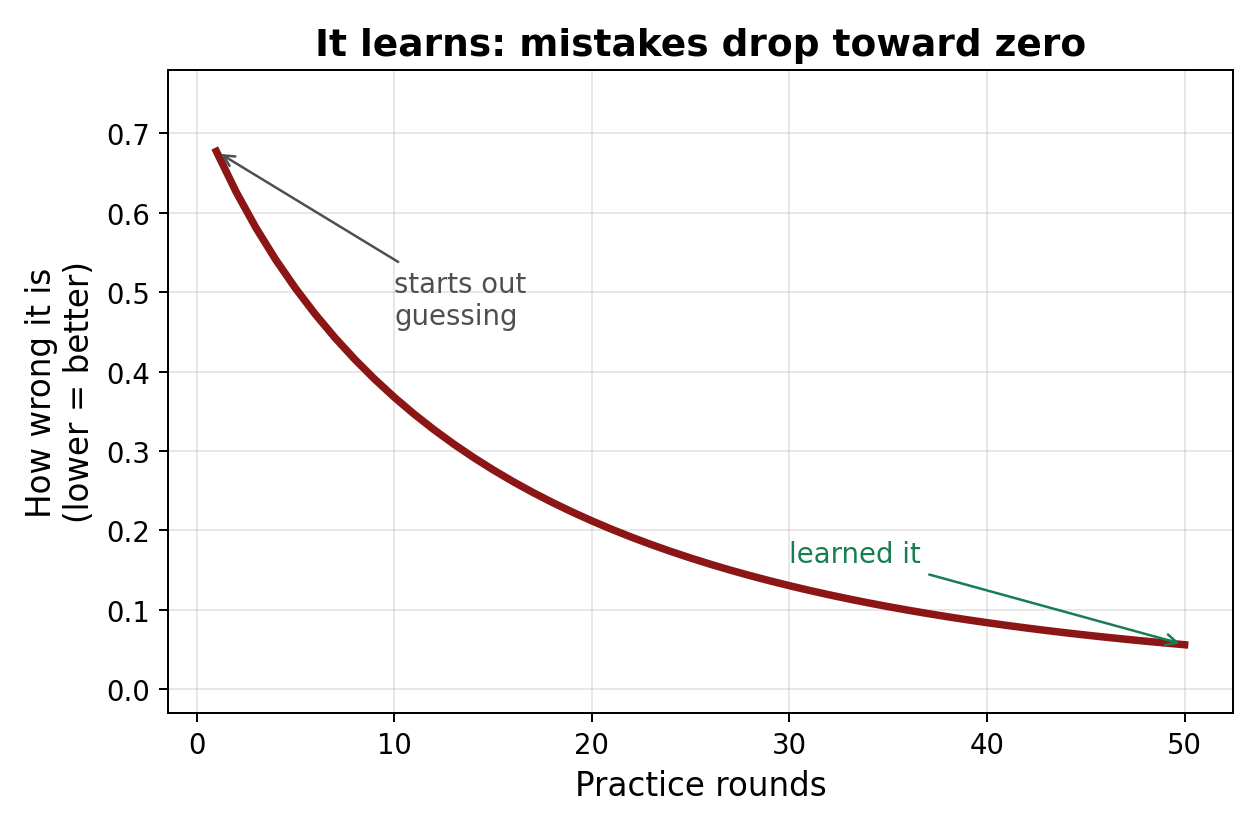
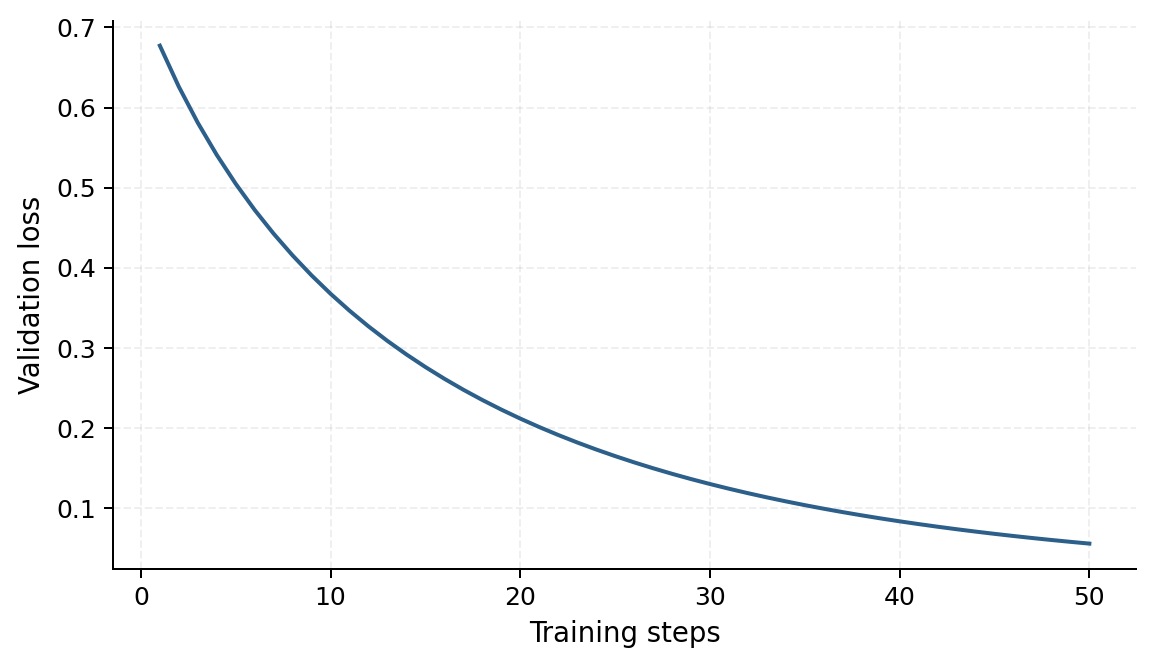
final touches :)

diff --git a/poster/main.tex b/poster/main.tex
@@ -44,10 +44,11 @@
 \newcommand{\separatorcolumn}{\begin{column}{\sepwidth}\end{column}}
 
 \title{Can a Quantum Circuit Read a Sentence?}
-\author{Feolu Kolawole \enspace$\cdot$\enspace Nick Rui}
+\author{Feolu Kolawole \enspace$\cdot$\enspace Nick Rui \\[0.2ex]
+  {\normalsize\{flukol, nickrui\}@stanford.edu}}
 \institute[shortinst]{Physics 14N \enspace$\cdot$\enspace Stanford University}
 \footercontent{\hfill From Syntax to Circuits: a toy QNLP sentiment classifier \hfill
-  \href{mailto:[email redacted]}{[email redacted]}}
+  \{flukol, nickrui\}@stanford.edu}
 
 \begin{document}
 
@@ -69,12 +70,12 @@
 \begin{column}{\colwidth}
 
   \begin{block}{Motivation}
-    We implement a \textbf{Quantum Natural Language Processing (QNLP)} pipeline that
+    We built a \textbf{Quantum Natural Language Processing (QNLP)} pipeline that
     classifies sentence sentiment as \textbf{\color{poscol}positive} or
-    \textbf{\color{negcol}negative} by executing a parameterized quantum circuit.
-    Grammar structure determines the circuit topology; learned rotation angles encode
-    word-level semantics. Classification follows from a single measurement in the
-    computational basis. We train and evaluate on sentence pairs such as
+    \textbf{\color{negcol}negative} using a parameterized quantum circuit.
+    Grammar determines the circuit structure; each word contributes a learned rotation
+    angle. The final measurement collapses the state to a class label.
+    We train and evaluate on sentence pairs such as
     \wordbox{poscol}{the clever program runs} vs.\
     \wordbox{negcol}{the broken code fails}.
     \smallskip
@@ -110,9 +111,8 @@
       {\color{objcol!60!black}\textbf{object}}
     \end{center}
 
-    Grammar determines the circuit topology and assigns role-specific
-    weights to each word's rotation parameter. Verbs and adjectives receive
-    higher weights, reflecting their greater contribution to sentential polarity:
+    Grammar wires words together and weights each role's contribution.
+    Verbs and adjectives carry more weight, since they drive sentiment:
 
     \begin{center}
       \begin{tabular}{lc}
@@ -127,15 +127,15 @@
         \bottomrule
       \end{tabular}
     \end{center}
-    \footnotesize (Object-role weights activate for sentences with an explicit object;
-    our example, ``the clever program runs,'' uses only the top three.)
+    \footnotesize (Object-role weights only apply when the sentence has an explicit object;
+    ``the clever program runs'' uses only the top three.)
   \end{block}
 
   \begin{block}{Step 2 --- Qubit states and measurement}
     A classical bit takes a definite value in $\{0,1\}$. A \textbf{qubit} is a
     two-level quantum system whose pure state is a unit vector on the
-    \textbf{Bloch sphere}. Before measurement, the qubit occupies a
-    \textbf{superposition} of computational basis states $|0\rangle$ and $|1\rangle$.
+    \textbf{Bloch sphere}. Before measurement, the qubit exists in a
+    \textbf{superposition} of $|0\rangle$ and $|1\rangle$.
 
     \begin{itemize}
       \item An $R_y(\theta)$ rotation from $|0\rangle$ yields
@@ -164,8 +164,8 @@
 \begin{column}{\colwidth}
 
   \begin{block}{Step 3 --- Encoding words as rotation angles}
-    Each word is encoded as an $R_y(\theta)$ rotation angle applied to its qubit wire.
-    Grammar composes the relevant angles onto each wire.
+    Each word maps to an $R_y(\theta)$ rotation on its qubit wire.
+    Grammar dictates which angles go on which wire.
     For \wordbox{poscol}{the clever program runs}, the \emph{trained} parameters are
     \;{\color{adjcol!60!black}\textbf{clever}}$=0.098$,\;
     {\color{nouncol!60!black}\textbf{program}}$=0.043$,\;
@@ -182,13 +182,13 @@
     \end{tabular}
     \end{center}
     \smallskip
-    The sentence qubit is initialized to the equatorial state ($\theta=\pi/2$),
-    so the weighted score shifts its state vector toward either pole --- the verb
+    The sentence qubit starts at the equatorial state ($\theta=\pi/2$),
+    so the weighted score tips it toward either pole --- the verb
     dominates (weight 1.40).
 
     \medskip
     \begin{center}
-    \begin{tikzpicture}[font=\sffamily,
+    \begin{tikzpicture}[scale=0.95, transform shape, font=\sffamily,
         gate/.style={draw, rounded corners=2pt, line width=1pt, minimum width=2.0cm, minimum height=1.05cm, align=center, font=\small},
         wire/.style={line width=1.3pt}]
       \draw[wire, nouncol] (3,1.4) -- (16.2,1.4);
@@ -239,10 +239,10 @@
       \end{tabular}
     \end{center}
 
-    Because each qubit is in a \textbf{superposition}, the CNOT produces an
-    \textbf{entangled} state: the post-gate state cannot be written as a
+    Because each qubit is in superposition, the CNOT produces an
+    \textbf{entangled} state: the result can no longer be written as a
     tensor product $|\psi_{\mathrm{subj}}\rangle\otimes|\psi_{\mathrm{sent}}\rangle$
-    of individual qubit states.
+    of the two qubits separately.
   \end{alertblock}
 
 \end{column}
@@ -272,15 +272,11 @@
         \bottomrule
       \end{tabular}
     \end{center}
-    The $R_y(\theta)$ rotation traces a path along the Bloch sphere: $\theta=0$ leaves
-    the qubit at $|0\rangle$ (north pole), $\theta=\pi$ rotates it to $|1\rangle$
-    (south pole), and $\theta=\pi/2$ yields the equatorial superposition
-    $\tfrac{1}{\sqrt{2}}(|0\rangle+|1\rangle)$. The sentence qubit's word angle
-    ($\theta=0.489$) places its state vector near the north pole; the verdict angle
-    ($\theta=2.465$) rotates it past the equator into the $|1\rangle$ hemisphere:
+    The sentence qubit's word angle ($\theta=0.489$) leaves it near the $|0\rangle$ pole;
+    the verdict ($\theta=2.465$) pushes it past the equator into the $|1\rangle$ hemisphere:
 
     \begin{center}
-    \begin{tikzpicture}[font=\sffamily]
+    \begin{tikzpicture}[scale=0.72, transform shape, font=\sffamily]
       \def\R{2.35}
       % colored arc: |0> half (left), |1> half (right)
       \draw[line width=12pt, negcol!55] (180:\R) arc (180:90:\R);
@@ -300,11 +296,10 @@
     \end{tikzpicture}
     \end{center}
 
-    \textbf{Measuring the sentence qubit} in the $\{|0\rangle,|1\rangle\}$ basis:
-    basis states $|01\rangle$ and $|11\rangle$ (right digit $=1$,
-    {\color{poscol}\textbf{green}} columns) correspond to a positive outcome.
-    The probability of each is the squared magnitude of its amplitude:
-    \begin{center}\Large
+    \textbf{Measuring the sentence qubit}: outcomes $|01\rangle$ and $|11\rangle$
+    (right digit $=1$, {\color{poscol}\textbf{green}} columns) are positive.
+    The probability of each outcome is the squared amplitude:
+    \begin{center}\large
       $P(|1\rangle) = 0.993^2 + 0.039^2 = \mathbf{0.988}
        \;\Rightarrow\; \textbf{\color{poscol}POSITIVE}\ \checkmark$
     \end{center}
@@ -325,10 +320,9 @@
             \bottomrule
           \end{tabular}
         \end{table}
-        \footnotesize All predictions are obtained by exact statevector simulation.
-        With only \textbf{2 qubits}, simulation is exact and completes in $<\!1$\,s;
-        full-scale QNLP would require many entangled qubits, motivating
-        execution on actual quantum hardware.
+        \footnotesize All predictions come from exact statevector simulation.
+        At \textbf{2 qubits} this runs in $<\!1$\,s; scaling to real language
+        would require many entangled qubits and actual quantum hardware.
       \end{column}
       \begin{column}{0.5\colwidth}
         \centering\includegraphics[width=0.86\linewidth]{assets/loss_curve.png}
@@ -337,22 +331,35 @@
   \end{block}
 
   \begin{alertblock}{Training: the parameter-shift rule}
-    Evaluate the circuit to obtain $P(|1\rangle)$; the error is
-    $e = P(|1\rangle) - y_{\mathrm{label}}$.
-    The gradient of $P(|1\rangle)$ with respect to each rotation angle $\theta$
-    is estimated via the \emph{parameter-shift rule}: re-running the circuit
-    with the angle shifted by $\pm\tfrac{\pi}{2}$ gives the exact gradient,
+    Error: $e = P(|1\rangle) - y_{\mathrm{label}}$. Gradients are computed exactly
+    by re-running the circuit at $\theta\pm\tfrac{\pi}{2}$:
+    \vspace{-0.5em}
     \begin{align*}
       \frac{\partial P}{\partial\theta} &=
         \tfrac{1}{2}\!\left[\,P\!\left(\theta{+}\tfrac{\pi}{2}\right)
-        - P\!\left(\theta{-}\tfrac{\pi}{2}\right)\,\right]\\[2pt]
-      \theta &\leftarrow \theta
-        - \eta\!\left(e\cdot\frac{\partial P}{\partial\theta}\right)
+        - P\!\left(\theta{-}\tfrac{\pi}{2}\right)\,\right], \qquad
+      \theta \leftarrow \theta - \eta\!\left(e\cdot\frac{\partial P}{\partial\theta}\right)
     \end{align*}
-    This identity holds exactly for gates of the form $e^{-i\theta G/2}$,
-    making it directly executable on quantum hardware. $\eta$ is the learning
-    rate; training proceeds for $\sim\!50$ epochs.
+    \vspace{-1em}
+
+    This identity holds exactly for gates $e^{-i\theta G/2}$, making it executable
+    on real quantum hardware. Training proceeds for $\sim\!50$ epochs.
   \end{alertblock}
+
+  \begin{block}{References}
+    \footnotesize
+    \begin{enumerate}
+      \item B.~Coecke, M.~Sadrzadeh, S.~Clark.
+            ``Mathematical Foundations for a Compositional Distributional Model of Meaning.''
+            \textit{Linguistic Analysis} 36, 345--384 (2010). arXiv:1003.4394
+      \item B.~Coecke, G.~de~Felice, K.~Meichanetzidis, A.~Toumi.
+            ``Foundations for Near-Term Quantum Natural Language Processing.''
+            arXiv:2012.03755 (2020).
+      \item K.~Mitarai, M.~Negoro, M.~Kitagawa, K.~Fujii.
+            ``Quantum Circuit Learning.''
+            \textit{Phys.\ Rev.\ A} 98, 032309 (2018). arXiv:1803.00745
+    \end{enumerate}
+  \end{block}
 
 \end{column}
 

diff --git a/src/qnlp_tutorial/quantum.py b/src/qnlp_tutorial/quantum.py
@@ -24,15 +24,12 @@ ROLE_WEIGHTS = {
     "object": 0.35,
 }
 
-# Operating point for the final decision rotation. Starting near pi/2 places the
-# sentence qubit at the steepest part of the measurement curve, so word
-# sentiments can push the measured probability up (positive) or down (negative).
+# pi/2 initializes the sentence qubit at the equator, equidistant from both poles.
 READOUT_OFFSET = float(np.pi / 2)
 
 _I2 = np.eye(2)
-# Basis states are ordered |subject sentence> with index = 2*subject + sentence.
-# CX with the subject qubit as control flips the sentence qubit only when the
-# subject reads 1, i.e. it swaps basis states 10 (index 2) and 11 (index 3).
+# Basis ordering: |subject, sentence>, index = 2*subject + sentence.
+# CX swaps |10> (index 2) and |11> (index 3).
 _CX_SUBJECT_SENTENCE = np.array(
     [
         [1.0, 0.0, 0.0, 0.0],
@@ -53,20 +50,14 @@ def _ry_matrix(theta: float) -> np.ndarray:
 def simulate_sentence_probability(
     subject_angle: float, predicate_angle: float, decision_angle: float
 ) -> float:
-    """Statevector-simulate the grammar circuit and return P(sentence qubit = 1).
-
-    Gate order: Ry on the subject qubit, Ry on the sentence qubit, a CX that
-    entangles subject -> sentence (the grammatical link), then the decision Ry
-    on the sentence qubit. The returned value is the measured probability that
-    the sentence qubit reads 1, interpreted as P(positive sentiment).
-    """
+    """Statevector simulation of the 2-qubit grammar circuit; returns P(sentence qubit = 1)."""
     state = np.zeros(4)
-    state[0] = 1.0  # both qubits start in |0>, i.e. basis state |00>
+    state[0] = 1.0  # |00>
     state = np.kron(_ry_matrix(subject_angle), _I2) @ state
     state = np.kron(_I2, _ry_matrix(predicate_angle)) @ state
     state = _CX_SUBJECT_SENTENCE @ state
     state = np.kron(_I2, _ry_matrix(decision_angle)) @ state
-    # The sentence qubit is the low bit; it reads 1 in basis states 01 and 11.
+    # sentence qubit is the low bit: reads 1 in |01> and |11>
     return float(state[1] ** 2 + state[3] ** 2)
 
 
@@ -234,7 +225,7 @@ class ToyQNLPClassifier:
 
                 probability = min(max(simulate_sentence_probability(sa, pa, da), eps), 1 - eps)
 
-                # Parameter-shift derivatives of P w.r.t. each gate angle.
+                # parameter-shift gradients
                 d_subject = 0.5 * (
                     simulate_sentence_probability(sa + shift, pa, da)
                     - simulate_sentence_probability(sa - shift, pa, da)
@@ -248,10 +239,9 @@ class ToyQNLPClassifier:
                     - simulate_sentence_probability(sa, pa, da - shift)
                 )
 
-                # d(BCE)/dP for this example.
                 d_loss_d_prob = (probability - label) / (probability * (1 - probability))
 
-                # Chain rule: which words feed which gate angle.
+                # chain rule: which words feed which gate
                 subject_words = [w for w in (diagram.adjective, diagram.subject) if w]
                 predicate_words = [
                     w for w in (diagram.verb, diagram.object_adjective, diagram.object_) if w
@@ -267,7 +257,7 @@ class ToyQNLPClassifier:
                     )
                     gradient[word] += d_loss_d_prob * d_angle
 
-                # The bias enters only the decision angle, with coefficient 1.
+                # bias feeds only the decision angle
                 bias_gradient += d_loss_d_prob * d_decision
 
             scale = 1.0 / len(diagrams)

diff --git a/src/qnlp_tutorial/visualize.py b/src/qnlp_tutorial/visualize.py
@@ -82,15 +82,16 @@ def save_loss_curve(
 ) -> Path:
     path = ensure_assets_dir(assets_dir) / filename
     history_df = pd.DataFrame(history)
-    fig, ax = plt.subplots(figsize=(7.5, 4.5))
-    ax.plot(history_df["epoch"], history_df["loss"], label="Training BCE loss", linewidth=2)
-    ax.set_xlabel("Epoch")
-    ax.set_ylabel("Loss")
-    ax.set_title("Hybrid Training Convergence")
-    ax.grid(True, alpha=0.3)
-    ax.legend()
+    fig, ax = plt.subplots(figsize=(6.5, 3.8))
+    ax.plot(history_df["epoch"], history_df["loss"], color="#2c5f8a", linewidth=1.6)
+    ax.set_xlabel("Training steps", fontsize=11)
+    ax.set_ylabel("Validation loss", fontsize=11)
+    ax.tick_params(labelsize=10)
+    ax.grid(True, alpha=0.2, linestyle="--")
+    ax.spines["top"].set_visible(False)
+    ax.spines["right"].set_visible(False)
     fig.tight_layout()
-    fig.savefig(path, dpi=180)
+    fig.savefig(path, dpi=180, bbox_inches="tight")
     plt.close(fig)
     return path
 